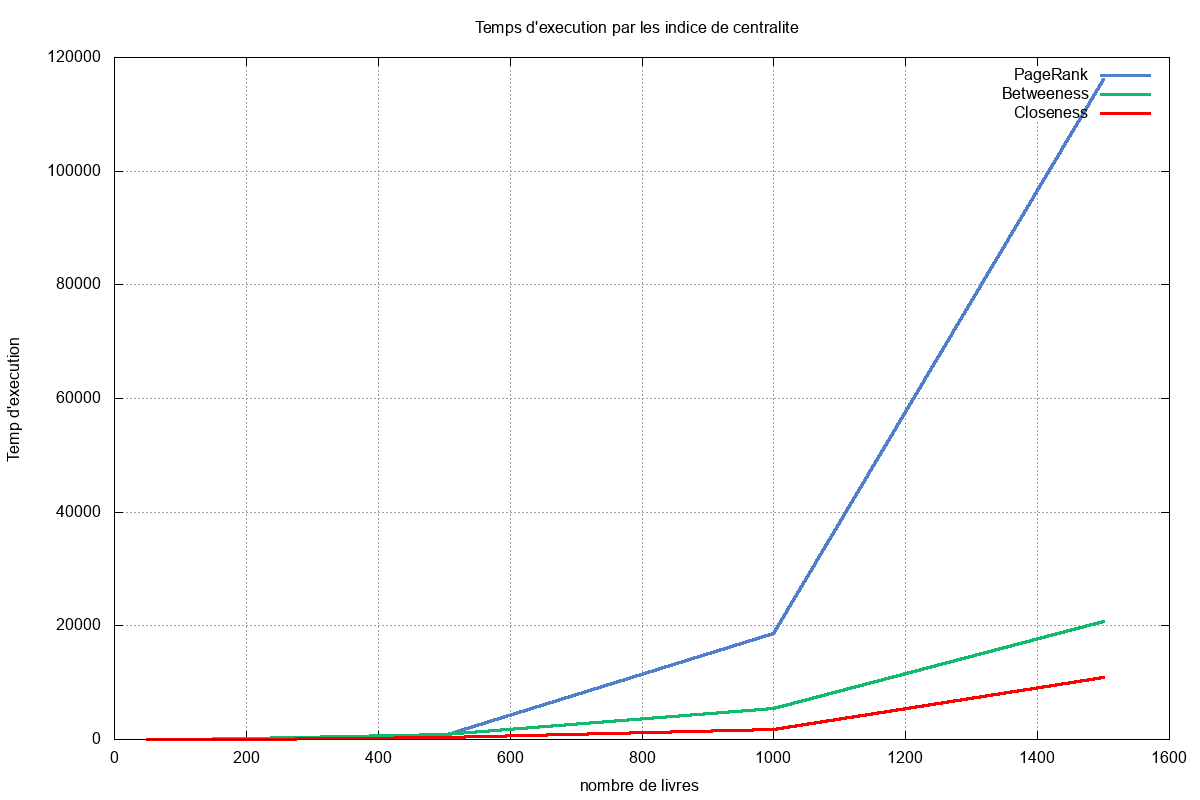
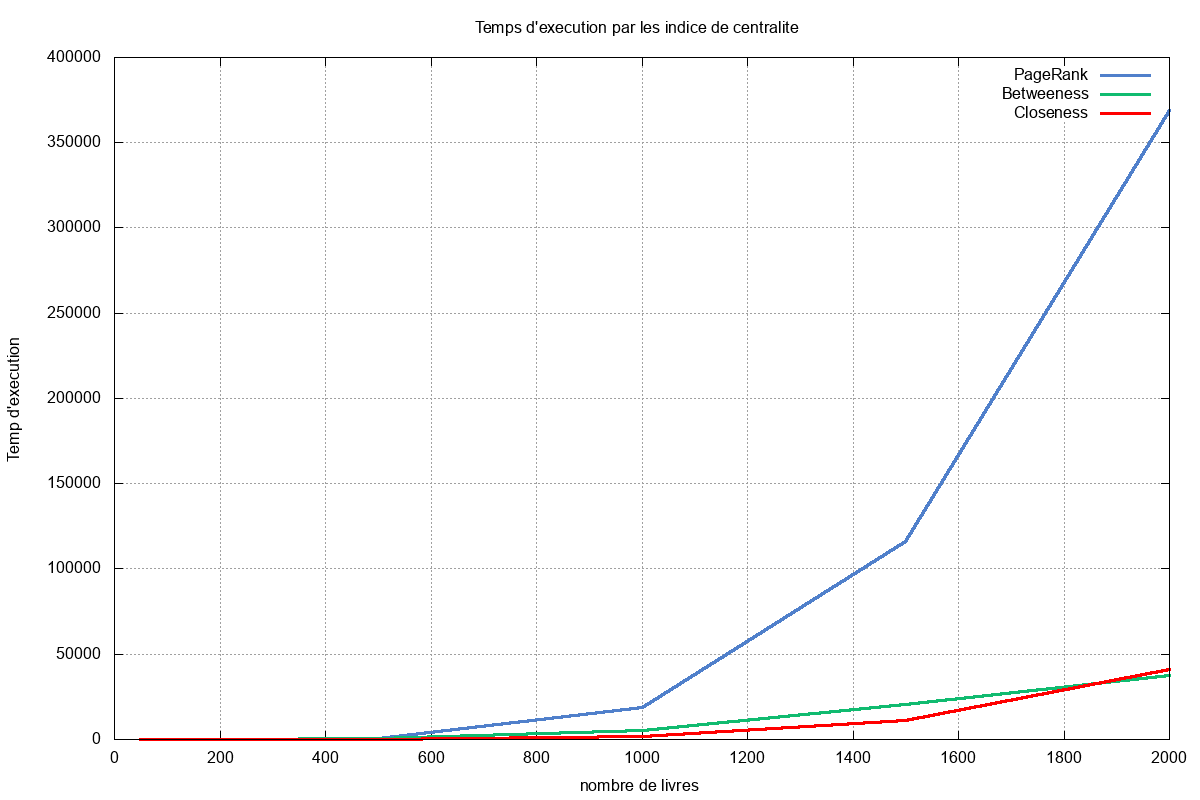
add commentaire

diff --git a/TME4/Online/tme4/Betweeness.java b/TME4/Online/tme4/Betweeness.java
@@ -23,7 +23,7 @@ import java.util.stream.Stream;
 import java.util.zip.GZIPInputStream;
 
 /**
- * 
+ * Cette classe est pour calculer Centralité intermédiaire
  * @author Ning GUO
  * @author Katia AMICHI
  *
@@ -61,9 +61,9 @@ public class Betweeness {
 			return false;
 		}
 	}
-	
+
 	/**
-	 * 
+	 * generer une liste des aretes a partir un fichier
 	 * @param fileName
 	 * @return
 	 */
@@ -92,11 +92,12 @@ public class Betweeness {
 
 	}
 	
+	
 	/**
-	 * 
+	 * Calculer la matrice de plus courts chemins a partir une liste aretes
 	 * @param size
 	 * @param liens
-	 * @return
+	 * @return la matrice Path
 	 */
 	public ArrayList<Integer>[][] calculShortestPaths(int size,ArrayList<Pair> liens) {
 		ArrayList<Integer>[][] paths= new ArrayList[size][size];
@@ -109,7 +110,7 @@ public class Betweeness {
 			}
 		}
 
-		//		    matrice d'adjacence
+		//		Initialisation de   matrice d'adjacence
 		double[][] m = new double[size][size];
 		for(Pair pair : liens) {
 			m[pair.p1][pair.p2] = 1;
@@ -167,7 +168,7 @@ public class Betweeness {
 				paths[i][j] = l; 
 			}
 		}
-		//		    matrice d'adjacence
+		//		completer  matrice d'adjacence
 		double[][] m = new double[size][size];
 		
 		for(int i =0;i<size;i++) {
@@ -245,7 +246,7 @@ public class Betweeness {
 
 
 	/**
-	 * 
+	 * transforme la matrice de Path en une matrice qui stocke les plus courts chemins de forme List<List<Integer>>
 	 * @param paths
 	 * @param size
 	 * @return
@@ -266,7 +267,7 @@ public class Betweeness {
 
 
 	/**
-	 * 
+	 * pour faire un parcours DFS 
 	 * @param i
 	 * @param j
 	 * @param paths
@@ -291,7 +292,7 @@ public class Betweeness {
 	}
 	
 	/**
-	 * 
+	 * afficher le map de betweenness map :<le numero de sommet, son betweenness>
 	 * @param mapBetweeness
 	 */
 	public void printResult(Map<Integer,Double> mapBetweeness) {
@@ -306,7 +307,7 @@ public class Betweeness {
 	}
 	
 	/**
-	 * 
+	 * generer le resultat de distribution de betweenness dans "Results/BeDistribution.txt"
 	 * @param mapBetweeness
 	 * @param nbLivres
 	 */

diff --git a/TME4/Online/tme4/TestPerformance.java b/TME4/Online/tme4/TestPerformance.java
@@ -24,15 +24,7 @@ public class TestPerformance {
 		Main main = new Main(edgeThehard,nbFiles);
 		Instant start, finish;
 
-//		ArrayList<String> files = main.getFiles();
-		//ArrayList<String> files = new ArrayList<String>();
-		
-		/*for(int id = 0; id<10;id++) {
-			files.add("Test/test"+id+".txt");
-		}*/
-		
-		// files = buildDataBase("./livres");		
-		
+//	
 		ArrayList<String> files = main.initDataBase();
 		// main.init(files);
 		System.out.println("nbfile : " + files.size());
@@ -123,11 +115,12 @@ public class TestPerformance {
 		} catch(UncheckedIOException ex) { throw ex.getCause(); }
 		
 		TestPerformance tp = new TestPerformance();
-		int [] nbFileList = {50,100,200,500,1000};
+		
+		// le nombre de livres pour tester varie entre 50-2000
+		int [] nbFileList = {50,100,200,500,1000,1500,2000};
 		for( int n : nbFileList) {
 			tp.test(0.75,n);
 		}
 		
-		// tp.test(0.75, 1500);
 	}
 }

diff --git a/TME4/Online/tme4/LireFile.java b/TME4/Online/tme4/LireFile.java
@@ -20,7 +20,7 @@ import java.util.Map.Entry;
 import java.util.Scanner;
 
 /**
- * 
+ * lire les livres sur la base http://www.gutenberg.org/files
  * @author Ning GUO
  * @author Katia AMICHI
  *
